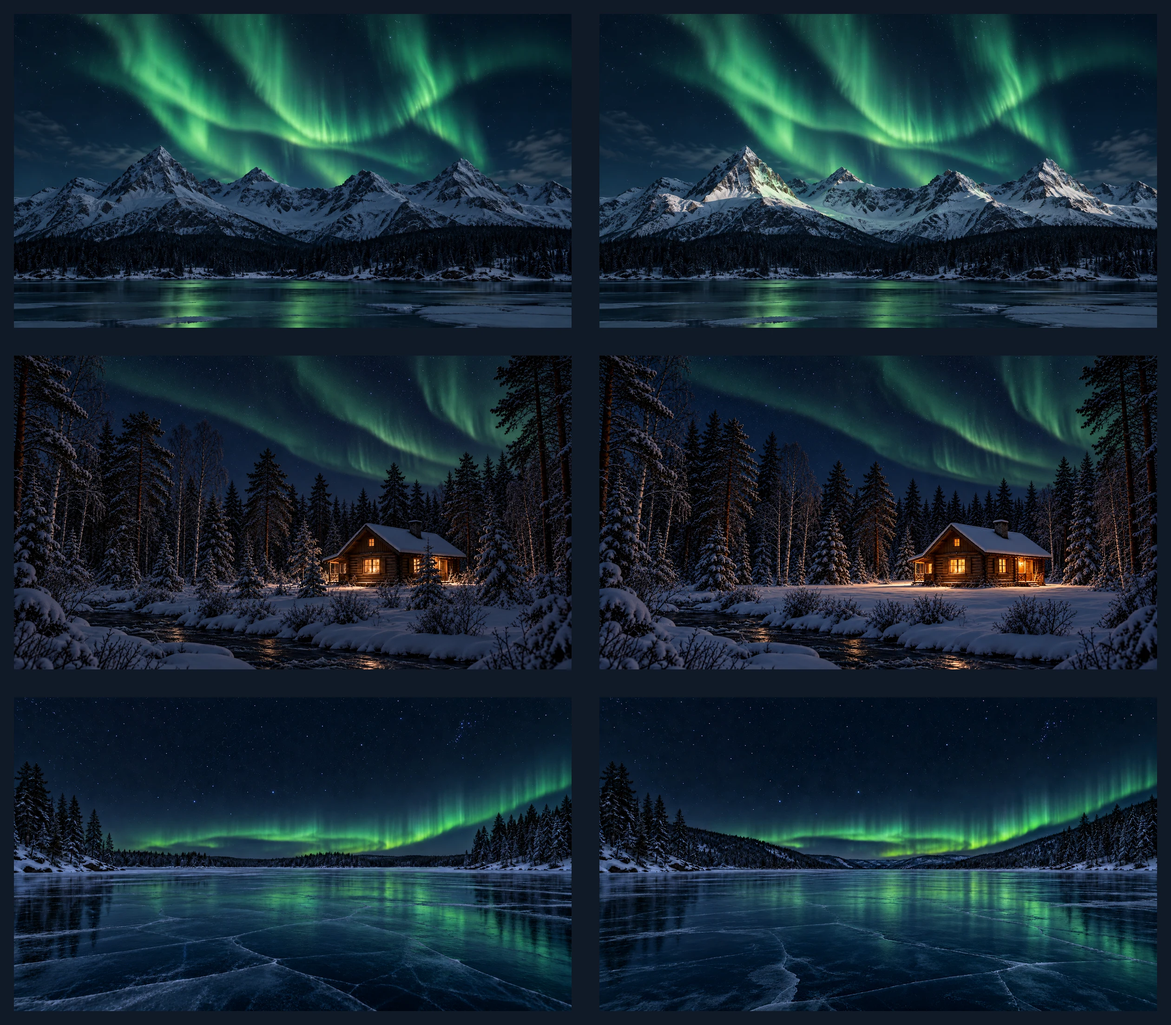
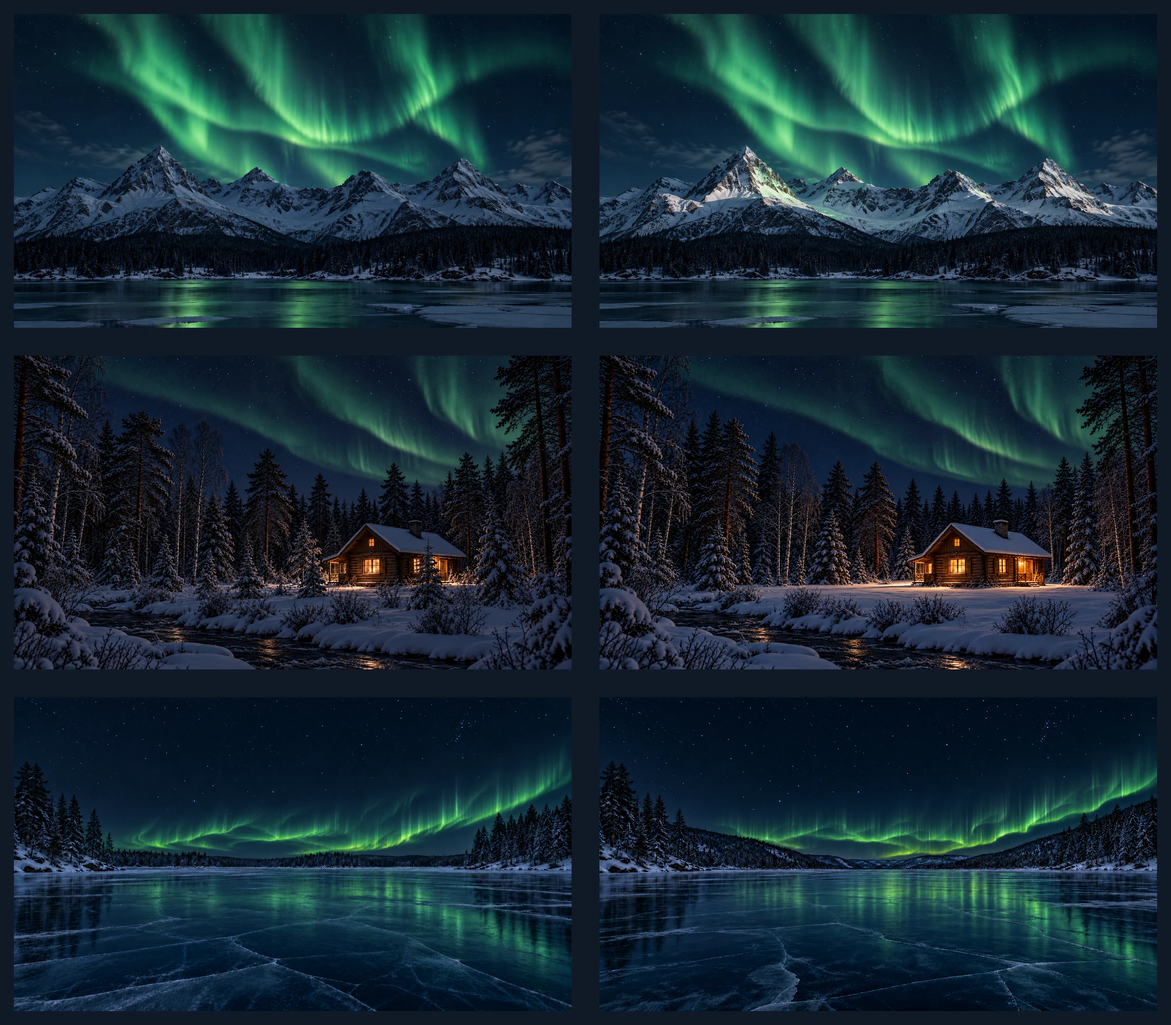
Refine lake auroras and refresh wallpaper collage

diff --git a/README.md b/README.md
@@ -1,6 +1,6 @@
 # Nordic Nightfall
 
-A dark Omarchy theme inspired by a Nordic winter night: deep blue-black surfaces, muted cold-blue accents, dark-blue focus borders, and an emerald Aurora Borealis above snow-shadowed mountains. Two forest wallpapers feature fir, pine, and birch around a warm-lit cabin beside a flowing river and beneath a green Aurora Borealis. One is slightly darker, with trees around the log cabin; the other has a snowy clearing softly lit by the cabin. Two frozen-lake wallpapers show the same detailed, gently sweeping green aurora above broad snow-lined lakes. Their ice has a smoother, more natural finish with soft cracks and subdued aurora reflections; one has a low, tree-lined horizon, while the other places the lake in a valley framed by wooded hills.
+A dark Omarchy theme inspired by a Nordic winter night: deep blue-black surfaces, muted cold-blue accents, dark-blue focus borders, and an emerald Aurora Borealis above snow-shadowed mountains. Two forest wallpapers feature fir, pine, and birch around a warm-lit cabin beside a flowing river and beneath a green Aurora Borealis. One is slightly darker, with trees around the log cabin; the other has a snowy clearing softly lit by the cabin. Two frozen-lake wallpapers show gently sweeping green auroras with delicate luminous filaments and translucent folds above broad snow-lined lakes. Dark ice, subtle cracks, and soft reflections fill the foreground; one has a low, tree-lined horizon, while the other places the lake in a valley framed by wooded hills.
 
 **Author:** Z1Z0R  
 **Repository:** [https://github.com/Z1Z0R/omarchy-nordic-nightfall-theme](https://github.com/Z1Z0R/omarchy-nordic-nightfall-theme)<br>
@@ -41,14 +41,14 @@ switching themes so it reloads the active GTK styles.
 
 ## Wallpaper credits
 
-All six included wallpapers were generated specifically for this theme with OpenAI Image Generation; no external source photograph was used. Each is 3840 × 2160, upscaled from a 1672 × 941 generated image with Lanczos resampling.
+All six included wallpapers were generated specifically for this theme with OpenAI Image Generation; no external source photograph was used. Each is 3840 × 2160, upscaled from a 1672 × 941 generated image with Lanczos resampling. The frozen-lake auroras were refined at the original generated resolution before upscaling, with no added sharpening.
 
 - `backgrounds/001-nordic-winter-shadowed-snow.png` is the darker, cooler night-snow version.
 - `backgrounds/002-nordic-winter-aurora-lit-snow.png` has brighter aurora-lit slopes.
 - `backgrounds/003-nordic-forest-cabin.png` is the slightly darker version, with fir, pine, and birch trees around the log cabin beside the flowing river and green aurora.
 - `backgrounds/004-nordic-forest-cabin-clearing.png` shows a snowy clearing around the cabin, with fir, pine, and birch trees, the same flowing river and green aurora, and snow softly lit by the cabin’s lighting.
-- `backgrounds/005-nordic-frozen-lake-aurora.png` shows a broad frozen lake beneath the detailed, low green aurora, with a mostly level, tree-lined horizon, smoother dark ice, subtle cracks, and subdued aurora reflections.
-- `backgrounds/006-nordic-frozen-lake-valley.png` shows the same aurora above a frozen lake between wooded hills that form a valley, with the aurora visible in the open sky above the distant hills; the ice has a smoother finish, soft cracks, and subdued aurora reflections.
+- `backgrounds/005-nordic-frozen-lake-aurora.png` shows a broad frozen lake with a mostly level, tree-lined horizon beneath a low green aurora of delicate filaments and layered folds, reflected softly across dark, subtly cracked ice.
+- `backgrounds/006-nordic-frozen-lake-valley.png` shows a frozen lake between wooded hills that form a valley, with narrow green aurora rays and translucent folds sweeping through the open sky above the distant hills, reflected across the dark ice.
 
 Use `omarchy theme bg next` to cycle between the backgrounds after installing the theme.
 
